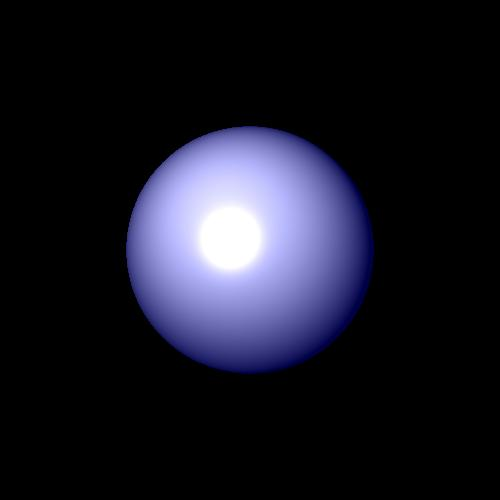
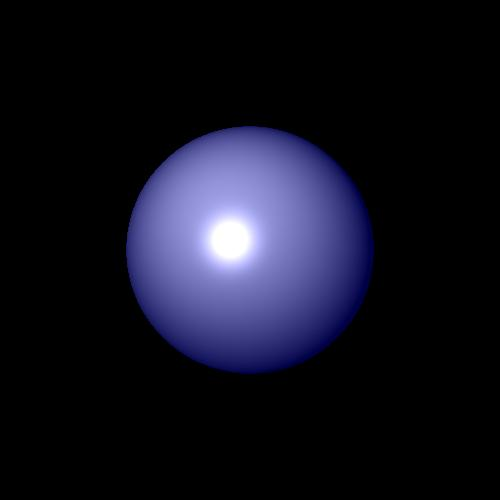
fixes shadow and stuff

Changed region(s): [[0.24, 0.24, 0.69, 0.69]]

diff --git a/unittests/RenderTest.java b/unittests/RenderTest.java
@@ -3,11 +3,10 @@ package unittests;
 import static org.junit.Assert.*;
 
 import java.util.Date;
+import java.util.*;
 import java.util.prefs.BackingStoreException;
 
 import org.junit.Test;
-
-import com.sun.java.swing.plaf.windows.WindowsInternalFrameTitlePane.ScalableIconUIResource;
 
 import elements.AmbientLight;
 import elements.Camera;
@@ -25,16 +24,14 @@ import primitives.Vector;
 import renderer.ImageWriter;
 import renderer.Render;
 import scene.Scene;
-import sun.nio.cs.MS1250;
-import sun.print.resources.serviceui;
 
 /**
- * @author Daniel&Yonathan
+ * @author Daniel & Yonathan
  *
  */
 public class RenderTest {
 
-/*	@Test
+	@Test
 	public void basicRendering() {
 
 		Date date = new Date();
@@ -65,14 +62,14 @@ public class RenderTest {
 
 		Render render = new Render(imageWriter, scene);
 
-		render.renderImage();
-		//render.printGrid(50);
-		render.printImage();
+		// render.renderImage();
+		// render.printGrid(50);
+		// render.printImage();
 
 		System.out.println(new Date().getTime() - date.getTime());
-	}*/
+	}
 
-	/*@Test
+	@Test
 	public void directionalLightRendering() {
 
 		Date date = new Date();
@@ -92,14 +89,14 @@ public class RenderTest {
 
 		Render render = new Render(imageWriter, scene);
 
-		render.renderImage();
+		// render.renderImage();
 		// render.printGrid(50);
-		render.printImage();
+		// render.printImage();
 
 		System.out.println(new Date().getTime() - date.getTime());
-	}*/
+	}
 
-	/*@Test
+	@Test
 	public void pointLightRendering() {
 
 		Date date = new Date();
@@ -119,14 +116,14 @@ public class RenderTest {
 
 		Render render = new Render(imageWriter, scene);
 
-		render.renderImage();
+		// render.renderImage();
 		// render.printGrid(50);
-		render.printImage();
+		// render.printImage();
 
 		System.out.println(new Date().getTime() - date.getTime());
-	}*/
+	}
 
-	/*@Test
+	@Test
 	public void spotLightRendering() {
 
 		Date date = new Date();
@@ -138,7 +135,7 @@ public class RenderTest {
 		Geometries geometries = new Geometries();
 		scene.set_geometries(geometries);
 		scene.set_ambientLight(new AmbientLight());
-		geometries.add(new Sphere(50, new Point3D(0, 0, 150), new Color(0, 0, 70), new Material(1, 1, 12)));
+		geometries.add(new Sphere(50, new Point3D(0, 0, 150), new Color(0, 0, 70), new Material(0.8, 0.7, 12)));
 		Vector Dir = new Point3D(0, 0, 150).subtract(new Point3D(60, 60, 61));
 		scene.get_lights().add(new SpotLight(new Point3D(35, -15, 1), 1, 0.7, 0.4, new Color(100, 100, 100),
 				Dir.subtract(new Vector(9, 0, 3))));
@@ -152,7 +149,7 @@ public class RenderTest {
 		render.printImage();
 
 		System.out.println(new Date().getTime() - date.getTime());
-	}*/
+	}
 
 	@Test
 	public void trianglesLightRendering() {
@@ -167,54 +164,85 @@ public class RenderTest {
 		scene.set_geometries(geometries);
 		scene.set_ambientLight(new AmbientLight(new Color(30, 30, 30), 1));
 
-		//scene.get_lights().add(new PointLight(new Point3D(0, 0, -1), 1, 0, 0.1, new Color(200, 80, 80)));
+		// scene.get_lights().add(new PointLight(new Point3D(0, 0, -1), 1, 0, 0.1, new
+		// Color(200, 80, 80)));
 		scene.get_lights().add(new PointLight(new Point3D(3, 0, 0), 1, 0, 0.1, new Color(230, 200, 150)));
-		//scene.get_lights().add(new DirectionalLight(new Vector(-1, 1, 1), new Color(230, 85, 90)));
-		
-	
-		//geometries.add(new Triangle(new Point3D(300, 300, 149), new Point3D(-180, -200, 180), new Point3D(200, -200, 180),
-			//	new Color(20, 20, 20), new Material(1, 0.8, 5)));
-		//geometries.add(new Triangle(new Point3D(297, 300, 149), new Point3D(-183, -200, 180), new Point3D(-200, 300, 149),
-			//	new Color(20, 20, 20), new Material(1, 0.8, 5)));
+		// scene.get_lights().add(new DirectionalLight(new Vector(-1, 1, 1), new
+		// Color(230, 85, 90)));
+
+		// geometries.add(new Triangle(new Point3D(300, 300, 149), new Point3D(-180,
+		// -200, 180), new Point3D(200, -200, 180),
+		// new Color(20, 20, 20), new Material(1, 0.8, 5)));
+		// geometries.add(new Triangle(new Point3D(297, 300, 149), new Point3D(-183,
+		// -200, 180), new Point3D(-200, 300, 149),
+		// new Color(20, 20, 20), new Material(1, 0.8, 5)));
 		geometries.add(new Sphere(8, new Point3D(0, 0, -10), new Color(143, 60, 185), new Material(0.9, 1, 20)));
 
-	
 		ImageWriter imageWriter = new ImageWriter("testTrianglesPoint", 500, 500, 500, 500);
 
 		Render render = new Render(imageWriter, scene);
 
-		render.renderImage();
+		// render.renderImage();
 		// render.printGrid(50);
-		render.printImage();
+		// render.printImage();
 
 		System.out.println(new Date().getTime() - date.getTime());
 	}
 
-/*	@Test
-	public void shadowRendering() {
+	/*
+	 * @Test public void shadowRendering() {
+	 * 
+	 * Date date = new Date();
+	 * 
+	 * Scene scene = new Scene("Test scene shadow"); scene.set_camera(new Camera(new
+	 * Point3D(0.0, 0.0, 0.0), new Vector(0.0, -1.0, 0.0), new Vector(0.0, 0.0,
+	 * 1.0))); scene.set_distance(350); scene.set_background(new Color(0, 0, 0));
+	 * Geometries geometries = new Geometries(); scene.set_geometries(geometries);
+	 * scene.set_ambientLight(new AmbientLight()); geometries.add(new Sphere(50, new
+	 * Point3D(0, 0, 150), new Color(0, 0, 70), new Material(0.8, 0.3, 20))); Vector
+	 * Dir = new Point3D(0, 0, 150).subtract(new Point3D(60, 60, 61));
+	 * scene.get_lights().add(new SpotLight(new Point3D(0, 0, 1), 1, 0.31, 0.7, new
+	 * Color(100, 100, 100), Dir.subtract(new Vector(9, 0, 3))));
+	 * 
+	 * ImageWriter imageWriter = new ImageWriter("testShadow", 500, 500, 500, 500);
+	 * 
+	 * Render render = new Render(imageWriter, scene);
+	 * 
+	 * render.renderImage(); // render.printGrid(50); render.printImage();
+	 * 
+	 * System.out.println(new Date().getTime() - date.getTime()); }
+	 */
 
-		Date date = new Date();
-
-		Scene scene = new Scene("Test scene shadow");
-		scene.set_camera(new Camera(new Point3D(0.0, 0.0, 0.0), new Vector(0.0, -1.0, 0.0), new Vector(0.0, 0.0, 1.0)));
-		scene.set_distance(350);
+	@Test
+	public void shadowTest() {
+		Scene scene = new Scene("Test shadow");
+		scene.set_camera(new Camera(new Point3D(0, 0, 0), new Vector(0, -1, 0), new Vector(0, 0, 1)));
+		scene.set_distance(100);
 		scene.set_background(new Color(0, 0, 0));
-		Geometries geometries = new Geometries();
-		scene.set_geometries(geometries);
 		scene.set_ambientLight(new AmbientLight());
-		geometries.add(new Sphere(50, new Point3D(0, 0, 150), new Color(0, 0, 70), new Material(0.8, 0.3, 20)));
-		Vector Dir = new Point3D(0, 0, 150).subtract(new Point3D(60, 60, 61));
-		scene.get_lights().add(new SpotLight(new Point3D(0, 0, 1), 1, 0.31, 0.7, new Color(100, 100, 100),
-				Dir.subtract(new Vector(9, 0, 3))));
 
-		ImageWriter imageWriter = new ImageWriter("testShadow", 500, 500, 500, 500);
+		Geometries geometries = new Geometries();
+		Sphere sphere = new Sphere(60, new Point3D(0, 0, 80), new Color(0, 0, 70), new Material(0.9, 0.5, 30));
+		Triangle triangle1 = new Triangle(new Point3D(-250, -250, 120), new Point3D(-250, 250, 120),
+				new Point3D(250, -250, 120), new Color(0, 0, 0), new Material(0.9, 0.8, 100));
+		Triangle triangle2 = new Triangle(new Point3D(250, 250, 120), new Point3D(-250, 250, 120),
+				new Point3D(250, -250, 120), new Color(0, 0, 0), new Material(0.9, 0.8, 100));
 
-		Render render = new Render(imageWriter, scene);
+		geometries.add(triangle1);
+		geometries.add(triangle2);
+		geometries.add(sphere);
 
-		render.renderImage();
-		// render.printGrid(50);
-		render.printImage();
+		scene.set_geometries(geometries);
+		List<LightSource> lights = new ArrayList<LightSource>();
+		lights.add(new SpotLight(new Point3D(50, -1, -12), 1, 0, 0.99, new Color(200, 200, 200), new Vector(-25, 0, 80)));
+		scene.set_lights(lights);
 
-		System.out.println(new Date().getTime() - date.getTime());
-	}*/
+		ImageWriter imageWriter = new ImageWriter("shadow test", 500, 500, 500, 500);
+		Render testRender = new Render(imageWriter, scene);
+
+		testRender.renderImage();
+		testRender.printImage();
+
+	}
+
 }

diff --git a/renderer/Render.java b/renderer/Render.java
@@ -16,7 +16,6 @@ import primitives.Color;
 import primitives.Point3D;
 import primitives.Ray;
 import scene.Scene;
-import sun.management.counter.Variability;
 
 /**
  * @author Daniel & Yonathan

diff --git a/elements/PointLight.java b/elements/PointLight.java
@@ -3,7 +3,6 @@
  */
 package elements;
 
-import com.sun.jndi.url.dns.dnsURLContext;
 
 import primitives.Color;
 import primitives.Point3D;

diff --git a/elements/Light.java b/elements/Light.java
@@ -3,7 +3,6 @@
  */
 package elements;
 
-import com.sun.accessibility.internal.resources.accessibility;
 
 import primitives.Color;
 
